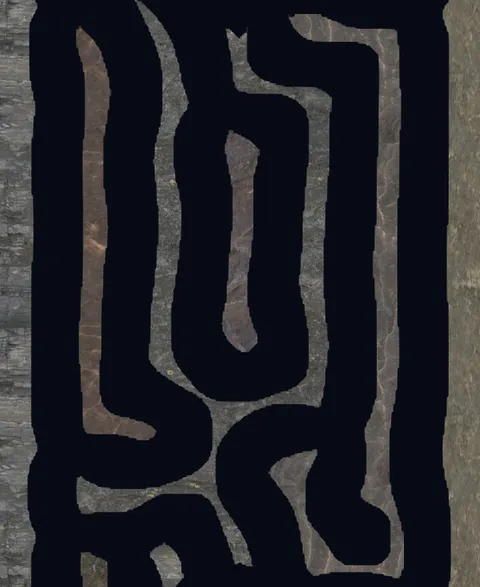
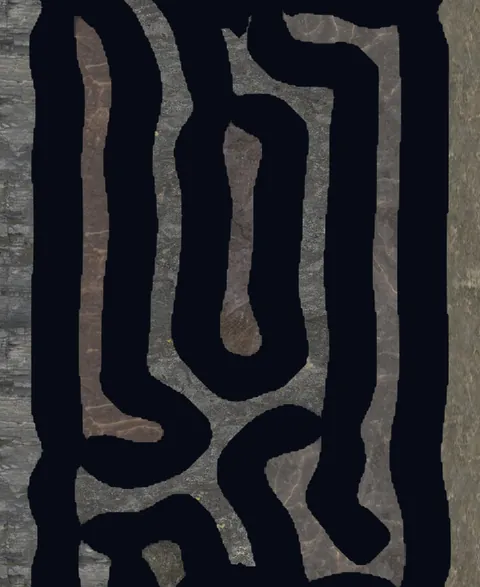
site: gallery shows a default lead image + randomized variations
Rework gallery.html so each type shows its default-parameter look as a headline lead image, and the
Part-of-random-set types add a small strip of randomized-parameter variations below it. Renders on
the smoothed disc-dilation generation (game #497). 33 images (7 varying x 4, 5 fixed x 1). Adds the
.lead-shot / .variations / .vary-shots CSS; bumps style.css to ?v=5.

diff --git a/gallery.html b/gallery.html
@@ -5,7 +5,7 @@
   <meta name="viewport" content="width=device-width, initial-scale=1">
   <title>Driftfire — Asteroid terrain gallery</title>
   <meta name="description" content="Every asteroid-field type in Driftfire, with sample boards so you can see at a glance what each generation method looks like.">
-  <link rel="stylesheet" href="style.css?v=3">
+  <link rel="stylesheet" href="style.css?v=5">
   <link rel="icon" href="assets/hero.png?v=2">
 </head>
 <body>
@@ -24,95 +24,127 @@
     <p class="lead">Every match drops you into a drifting asteroid field. You <em>flick</em> — swipe
       to launch your ship — through the rock, and your shots <em>bore</em> holes clean through it.
       These are the field types you can choose in <strong>Settings &rarr; Asteroids &rarr; Method</strong>.</p>
-    <p class="muted">Each type is shown as one sample board — every match generates a fresh field, so the same type looks different every time. A <strong>Part of random set</strong> badge marks the types a
-      random field can roll.</p>
+    <p class="muted">Each type shows its default look. The <strong>Part of random set</strong> types
+      also vary their generation settings from match to match, so they add a few of those variations.</p>
     <article class="style" id="caves">
       <div class="style-head"><h3>Caves</h3><span class="tag tag-rec">Part of random set</span></div>
       <p class="desc">Mixed rock: round blobs and long ridges, each big asteroid hollowed by a ship-sized cave you can fly inside. The default — the most varied terrain to fight through.</p>
-      <div class="shots">
-        <img src="assets/asteroid-gallery/caves_1001.webp?v=1" alt="Caves asteroid field" width="480" height="587" loading="lazy" decoding="async">
+      <div class="lead-shot"><img src="assets/asteroid-gallery/caves_1001.webp?v=2" alt="Caves asteroid field" width="480" height="587" loading="lazy" decoding="async"></div>
+      <div class="variations">
+        <p class="vary-label">Parameter variations a random match can roll</p>
+        <div class="vary-shots">
+          <img src="assets/asteroid-gallery/caves_2002.webp?v=2" alt="Caves parameter variation 1" width="480" height="587" loading="lazy" decoding="async">
+          <img src="assets/asteroid-gallery/caves_3003.webp?v=2" alt="Caves parameter variation 2" width="480" height="587" loading="lazy" decoding="async">
+          <img src="assets/asteroid-gallery/caves_4004.webp?v=2" alt="Caves parameter variation 3" width="480" height="587" loading="lazy" decoding="async">
+        </div>
       </div>
     </article>
     <article class="style" id="dendritic">
       <div class="style-head"><h3>Dendritic</h3><span class="tag tag-rec">Part of random set</span></div>
       <p class="desc">Branching, root-like rock full of nooks and narrow gaps to thread a flick through.</p>
-      <div class="shots">
-        <img src="assets/asteroid-gallery/dendritic_1001.webp?v=1" alt="Dendritic asteroid field" width="480" height="587" loading="lazy" decoding="async">
+      <div class="lead-shot"><img src="assets/asteroid-gallery/dendritic_1001.webp?v=2" alt="Dendritic asteroid field" width="480" height="587" loading="lazy" decoding="async"></div>
+      <div class="variations">
+        <p class="vary-label">Parameter variations a random match can roll</p>
+        <div class="vary-shots">
+          <img src="assets/asteroid-gallery/dendritic_2002.webp?v=2" alt="Dendritic parameter variation 1" width="480" height="587" loading="lazy" decoding="async">
+          <img src="assets/asteroid-gallery/dendritic_3003.webp?v=2" alt="Dendritic parameter variation 2" width="480" height="587" loading="lazy" decoding="async">
+          <img src="assets/asteroid-gallery/dendritic_4004.webp?v=2" alt="Dendritic parameter variation 3" width="480" height="587" loading="lazy" decoding="async">
+        </div>
       </div>
     </article>
     <article class="style" id="coral_open">
       <div class="style-head"><h3>Coral field (open)</h3><span class="tag tag-rec">Part of random set</span></div>
       <p class="desc">A field-wide coral pattern where the veins are rock and the gaps are open — winding lanes with room to fly.</p>
-      <div class="shots">
-        <img src="assets/asteroid-gallery/coral_open_1001.webp?v=1" alt="Coral field (open) asteroid field" width="480" height="587" loading="lazy" decoding="async">
+      <div class="lead-shot"><img src="assets/asteroid-gallery/coral_open_1001.webp?v=2" alt="Coral field (open) asteroid field" width="480" height="587" loading="lazy" decoding="async"></div>
+      <div class="variations">
+        <p class="vary-label">Parameter variations a random match can roll</p>
+        <div class="vary-shots">
+          <img src="assets/asteroid-gallery/coral_open_2002.webp?v=2" alt="Coral field (open) parameter variation 1" width="480" height="587" loading="lazy" decoding="async">
+          <img src="assets/asteroid-gallery/coral_open_3003.webp?v=2" alt="Coral field (open) parameter variation 2" width="480" height="587" loading="lazy" decoding="async">
+          <img src="assets/asteroid-gallery/coral_open_4004.webp?v=2" alt="Coral field (open) parameter variation 3" width="480" height="587" loading="lazy" decoding="async">
+        </div>
       </div>
     </article>
     <article class="style" id="coral_dense">
       <div class="style-head"><h3>Coral field (dense)</h3><span class="tag tag-rec">Part of random set</span></div>
       <p class="desc">The coral inverted: mostly rock, its veins carved out as tight channels. Cramped — expect to drill your own shortcuts.</p>
-      <div class="shots">
-        <img src="assets/asteroid-gallery/coral_dense_1001.webp?v=1" alt="Coral field (dense) asteroid field" width="480" height="587" loading="lazy" decoding="async">
+      <div class="lead-shot"><img src="assets/asteroid-gallery/coral_dense_1001.webp?v=2" alt="Coral field (dense) asteroid field" width="480" height="587" loading="lazy" decoding="async"></div>
+      <div class="variations">
+        <p class="vary-label">Parameter variations a random match can roll</p>
+        <div class="vary-shots">
+          <img src="assets/asteroid-gallery/coral_dense_2002.webp?v=2" alt="Coral field (dense) parameter variation 1" width="480" height="587" loading="lazy" decoding="async">
+          <img src="assets/asteroid-gallery/coral_dense_3003.webp?v=2" alt="Coral field (dense) parameter variation 2" width="480" height="587" loading="lazy" decoding="async">
+          <img src="assets/asteroid-gallery/coral_dense_4004.webp?v=2" alt="Coral field (dense) parameter variation 3" width="480" height="587" loading="lazy" decoding="async">
+        </div>
       </div>
     </article>
     <article class="style" id="slime_open">
       <div class="style-head"><h3>Slime field (open)</h3><span class="tag tag-rec">Part of random set</span></div>
       <p class="desc">Slime-mold veins of rock with open cells between them — organic, connected lanes to weave along.</p>
-      <div class="shots">
-        <img src="assets/asteroid-gallery/slime_open_1001.webp?v=1" alt="Slime field (open) asteroid field" width="480" height="587" loading="lazy" decoding="async">
+      <div class="lead-shot"><img src="assets/asteroid-gallery/slime_open_1001.webp?v=2" alt="Slime field (open) asteroid field" width="480" height="587" loading="lazy" decoding="async"></div>
+      <div class="variations">
+        <p class="vary-label">Parameter variations a random match can roll</p>
+        <div class="vary-shots">
+          <img src="assets/asteroid-gallery/slime_open_2002.webp?v=2" alt="Slime field (open) parameter variation 1" width="480" height="587" loading="lazy" decoding="async">
+          <img src="assets/asteroid-gallery/slime_open_3003.webp?v=2" alt="Slime field (open) parameter variation 2" width="480" height="587" loading="lazy" decoding="async">
+          <img src="assets/asteroid-gallery/slime_open_4004.webp?v=2" alt="Slime field (open) parameter variation 3" width="480" height="587" loading="lazy" decoding="async">
+        </div>
       </div>
     </article>
     <article class="style" id="slime_dense">
       <div class="style-head"><h3>Slime field (dense)</h3><span class="tag tag-rec">Part of random set</span></div>
       <p class="desc">The slime inverted: mostly solid rock threaded by narrow carved channels. Tight and defensive.</p>
-      <div class="shots">
-        <img src="assets/asteroid-gallery/slime_dense_1001.webp?v=1" alt="Slime field (dense) asteroid field" width="480" height="587" loading="lazy" decoding="async">
+      <div class="lead-shot"><img src="assets/asteroid-gallery/slime_dense_1001.webp?v=2" alt="Slime field (dense) asteroid field" width="480" height="587" loading="lazy" decoding="async"></div>
+      <div class="variations">
+        <p class="vary-label">Parameter variations a random match can roll</p>
+        <div class="vary-shots">
+          <img src="assets/asteroid-gallery/slime_dense_2002.webp?v=2" alt="Slime field (dense) parameter variation 1" width="480" height="587" loading="lazy" decoding="async">
+          <img src="assets/asteroid-gallery/slime_dense_3003.webp?v=2" alt="Slime field (dense) parameter variation 2" width="480" height="587" loading="lazy" decoding="async">
+          <img src="assets/asteroid-gallery/slime_dense_4004.webp?v=2" alt="Slime field (dense) parameter variation 3" width="480" height="587" loading="lazy" decoding="async">
+        </div>
       </div>
     </article>
     <article class="style" id="erosion">
       <div class="style-head"><h3>Continents</h3><span class="tag tag-rec">Part of random set</span></div>
       <p class="desc">A near-solid board eaten away into large continents, with open room cleared around each hangar.</p>
-      <div class="shots">
-        <img src="assets/asteroid-gallery/erosion_1001.webp?v=1" alt="Continents asteroid field" width="480" height="587" loading="lazy" decoding="async">
+      <div class="lead-shot"><img src="assets/asteroid-gallery/erosion_1001.webp?v=2" alt="Continents asteroid field" width="480" height="587" loading="lazy" decoding="async"></div>
+      <div class="variations">
+        <p class="vary-label">Parameter variations a random match can roll</p>
+        <div class="vary-shots">
+          <img src="assets/asteroid-gallery/erosion_2002.webp?v=2" alt="Continents parameter variation 1" width="480" height="587" loading="lazy" decoding="async">
+          <img src="assets/asteroid-gallery/erosion_3003.webp?v=2" alt="Continents parameter variation 2" width="480" height="587" loading="lazy" decoding="async">
+          <img src="assets/asteroid-gallery/erosion_4004.webp?v=2" alt="Continents parameter variation 3" width="480" height="587" loading="lazy" decoding="async">
+        </div>
       </div>
     </article>
     <article class="style" id="disc">
       <div class="style-head"><h3>Disc (round)</h3></div>
       <p class="desc">Plain round blobs scattered across open space — the original look, with little terrain to hide behind.</p>
-      <div class="shots">
-        <img src="assets/asteroid-gallery/disc_1001.webp?v=1" alt="Disc (round) asteroid field" width="480" height="587" loading="lazy" decoding="async">
-      </div>
+      <div class="lead-shot"><img src="assets/asteroid-gallery/disc_1001.webp?v=2" alt="Disc (round) asteroid field" width="480" height="587" loading="lazy" decoding="async"></div>
     </article>
     <article class="style" id="noise">
       <div class="style-head"><h3>Noise</h3></div>
       <p class="desc">Soft lobed blobs from warped noise. Some fields come out fairly plain and open.</p>
-      <div class="shots">
-        <img src="assets/asteroid-gallery/noise_1001.webp?v=1" alt="Noise asteroid field" width="480" height="587" loading="lazy" decoding="async">
-      </div>
+      <div class="lead-shot"><img src="assets/asteroid-gallery/noise_1001.webp?v=2" alt="Noise asteroid field" width="480" height="587" loading="lazy" decoding="async"></div>
     </article>
     <article class="style" id="fractal">
       <div class="style-head"><h3>Craggy (fractal)</h3></div>
       <p class="desc">One jagged, craggy coastline of rock rather than separate asteroids.</p>
-      <div class="shots">
-        <img src="assets/asteroid-gallery/fractal_1001.webp?v=1" alt="Craggy (fractal) asteroid field" width="480" height="587" loading="lazy" decoding="async">
-      </div>
+      <div class="lead-shot"><img src="assets/asteroid-gallery/fractal_1001.webp?v=2" alt="Craggy (fractal) asteroid field" width="480" height="587" loading="lazy" decoding="async"></div>
     </article>
     <article class="style" id="band">
       <div class="style-head"><h3>Solid band</h3></div>
       <p class="desc">A single solid slab across the middle. Bore a hole to punch through, or loop around the open ends.</p>
-      <div class="shots">
-        <img src="assets/asteroid-gallery/band_1001.webp?v=1" alt="Solid band asteroid field" width="480" height="587" loading="lazy" decoding="async">
-      </div>
+      <div class="lead-shot"><img src="assets/asteroid-gallery/band_1001.webp?v=2" alt="Solid band asteroid field" width="480" height="587" loading="lazy" decoding="async"></div>
     </article>
     <article class="style" id="breakout">
       <div class="style-head"><h3>Breakout</h3></div>
       <p class="desc">A regular grid of small brick-like rocks across the middle, like the wall in Breakout.</p>
-      <div class="shots">
-        <img src="assets/asteroid-gallery/breakout_1001.webp?v=1" alt="Breakout asteroid field" width="480" height="587" loading="lazy" decoding="async">
-      </div>
+      <div class="lead-shot"><img src="assets/asteroid-gallery/breakout_1001.webp?v=2" alt="Breakout asteroid field" width="480" height="587" loading="lazy" decoding="async"></div>
     </article>
     <hr>
     <p class="muted">Samples are generated straight from the game's field generator, so they track
-      the real thing. Seed: 1001.</p>
+      the real thing. Seeds: 1001 (default), 2002, 3003, 4004.</p>
 
     <footer class="site">
       &copy; 2026 Driftfire &middot;

diff --git a/style.css b/style.css
@@ -65,11 +65,6 @@ header.site nav a[aria-current="page"] { color: var(--head); }
 
 /* --- Asteroid terrain gallery (gallery.html) --- */
 .wrap-wide { max-width: 940px; }
-h2.section {
-  font-family: "Audiowide", system-ui, sans-serif;
-  color: var(--accent); font-size: 14px; letter-spacing: 1.5px; text-transform: uppercase;
-  margin: 2.6em 0 0.6em; padding-bottom: 8px; border-bottom: 1px solid var(--border);
-}
 .style { margin: 0 0 26px; }
 .style-head { display: flex; align-items: baseline; gap: 10px; flex-wrap: wrap; }
 .style-head h3 { color: var(--head); font-size: 18px; margin: 0; }
@@ -79,9 +74,20 @@ h2.section {
 }
 .tag-rec { border-color: var(--accent); color: var(--accent); }
 .style .desc { margin: 8px 0 12px; }
-/* One sample board per style, shown at a fixed preview width; max-width:100% caps it on a phone. */
-.shots img {
-  width: 320px; max-width: 100%; height: auto; display: block; border-radius: 8px;
+/* Each style's default-parameter lead: one image at a comfortable headline size. */
+.lead-shot img {
+  width: 380px; max-width: 100%; height: auto; display: block; border-radius: 8px;
+  border: 1px solid var(--border); background: var(--bg);
+}
+/* A param-varying style's randomized variations: a smaller 3-across strip below the lead.
+   minmax(0, 1fr), not 1fr, so the thumbnails shrink on a phone instead of overflowing the viewport. */
+.variations { margin-top: 12px; }
+.vary-label { color: var(--muted); font-size: 13px; margin: 0 0 8px; }
+.vary-shots {
+  display: grid; grid-template-columns: repeat(3, minmax(0, 1fr)); gap: 8px; max-width: 460px;
+}
+.vary-shots img {
+  width: 100%; height: auto; display: block; border-radius: 6px;
   border: 1px solid var(--border); background: var(--bg);
 }
 

diff --git a/index.html b/index.html
@@ -5,7 +5,7 @@
   <meta name="viewport" content="width=device-width, initial-scale=1">
   <title>Driftfire</title>
   <meta name="description" content="Driftfire — a two-player hot-seat space duel through a drifting asteroid field.">
-  <link rel="stylesheet" href="style.css?v=3">
+  <link rel="stylesheet" href="style.css?v=5">
   <link rel="icon" href="assets/hero.png?v=2">
   <!-- Cache-busting: GitHub Pages caches assets by filename. When you change a committed asset
        (hero.png, style.css, a font), bump the ?v=N on its refs here (and CSS @font-face) or
@@ -45,9 +45,9 @@
       <p>Every match generates a fresh asteroid field. From open coral lanes to dense continents,
         each field type plays differently — browse them all in the terrain gallery.</p>
       <div class="teaser-shots">
-        <img src="assets/asteroid-gallery/caves_1001.webp?v=1" alt="A Caves asteroid field" loading="lazy" decoding="async">
-        <img src="assets/asteroid-gallery/coral_open_1001.webp?v=1" alt="An open Coral asteroid field" loading="lazy" decoding="async">
-        <img src="assets/asteroid-gallery/erosion_1001.webp?v=1" alt="A Continents asteroid field" loading="lazy" decoding="async">
+        <img src="assets/asteroid-gallery/caves_1001.webp?v=2" alt="A Caves asteroid field" loading="lazy" decoding="async">
+        <img src="assets/asteroid-gallery/coral_open_1001.webp?v=2" alt="An open Coral asteroid field" loading="lazy" decoding="async">
+        <img src="assets/asteroid-gallery/erosion_1001.webp?v=2" alt="A Continents asteroid field" loading="lazy" decoding="async">
       </div>
       <div class="btns">
         <a class="btn" href="gallery.html">Browse the terrain gallery</a>

diff --git a/privacy.html b/privacy.html
@@ -5,7 +5,7 @@
   <meta name="viewport" content="width=device-width, initial-scale=1">
   <title>Privacy Policy &middot; Driftfire</title>
   <meta name="description" content="Driftfire's privacy policy — offline by default; optional online multiplayer uses your IP only to connect players.">
-  <link rel="stylesheet" href="style.css?v=3">
+  <link rel="stylesheet" href="style.css?v=5">
   <link rel="icon" href="assets/hero.png?v=2">
 </head>
 <body>

diff --git a/support.html b/support.html
@@ -5,7 +5,7 @@
   <meta name="viewport" content="width=device-width, initial-scale=1">
   <title>Support &middot; Driftfire</title>
   <meta name="description" content="Get help with Driftfire, report a bug, or suggest a feature.">
-  <link rel="stylesheet" href="style.css?v=3">
+  <link rel="stylesheet" href="style.css?v=5">
   <link rel="icon" href="assets/hero.png?v=2">
 </head>
 <body>
